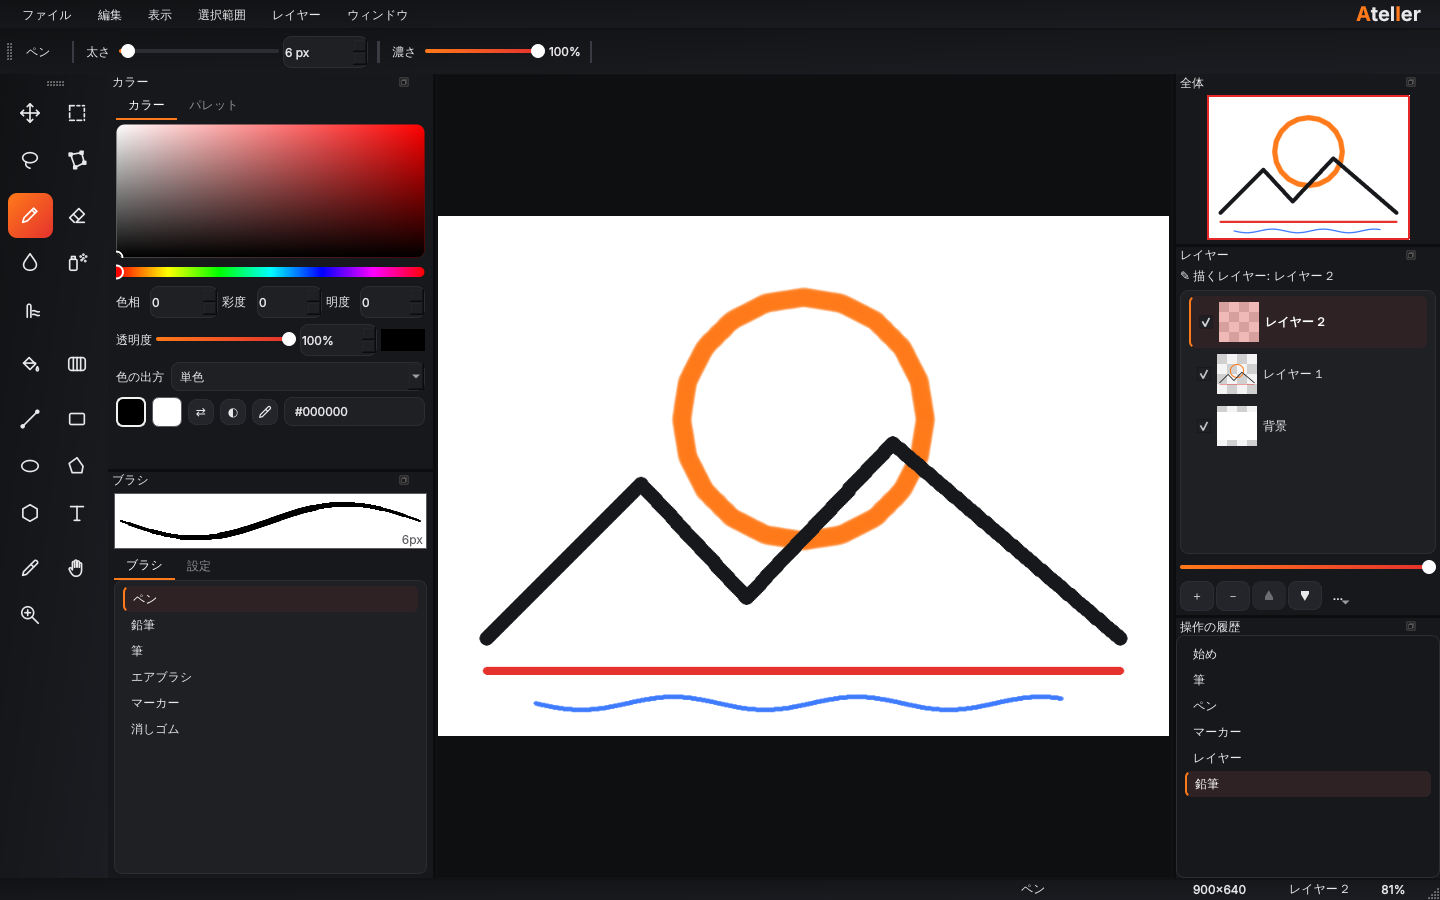
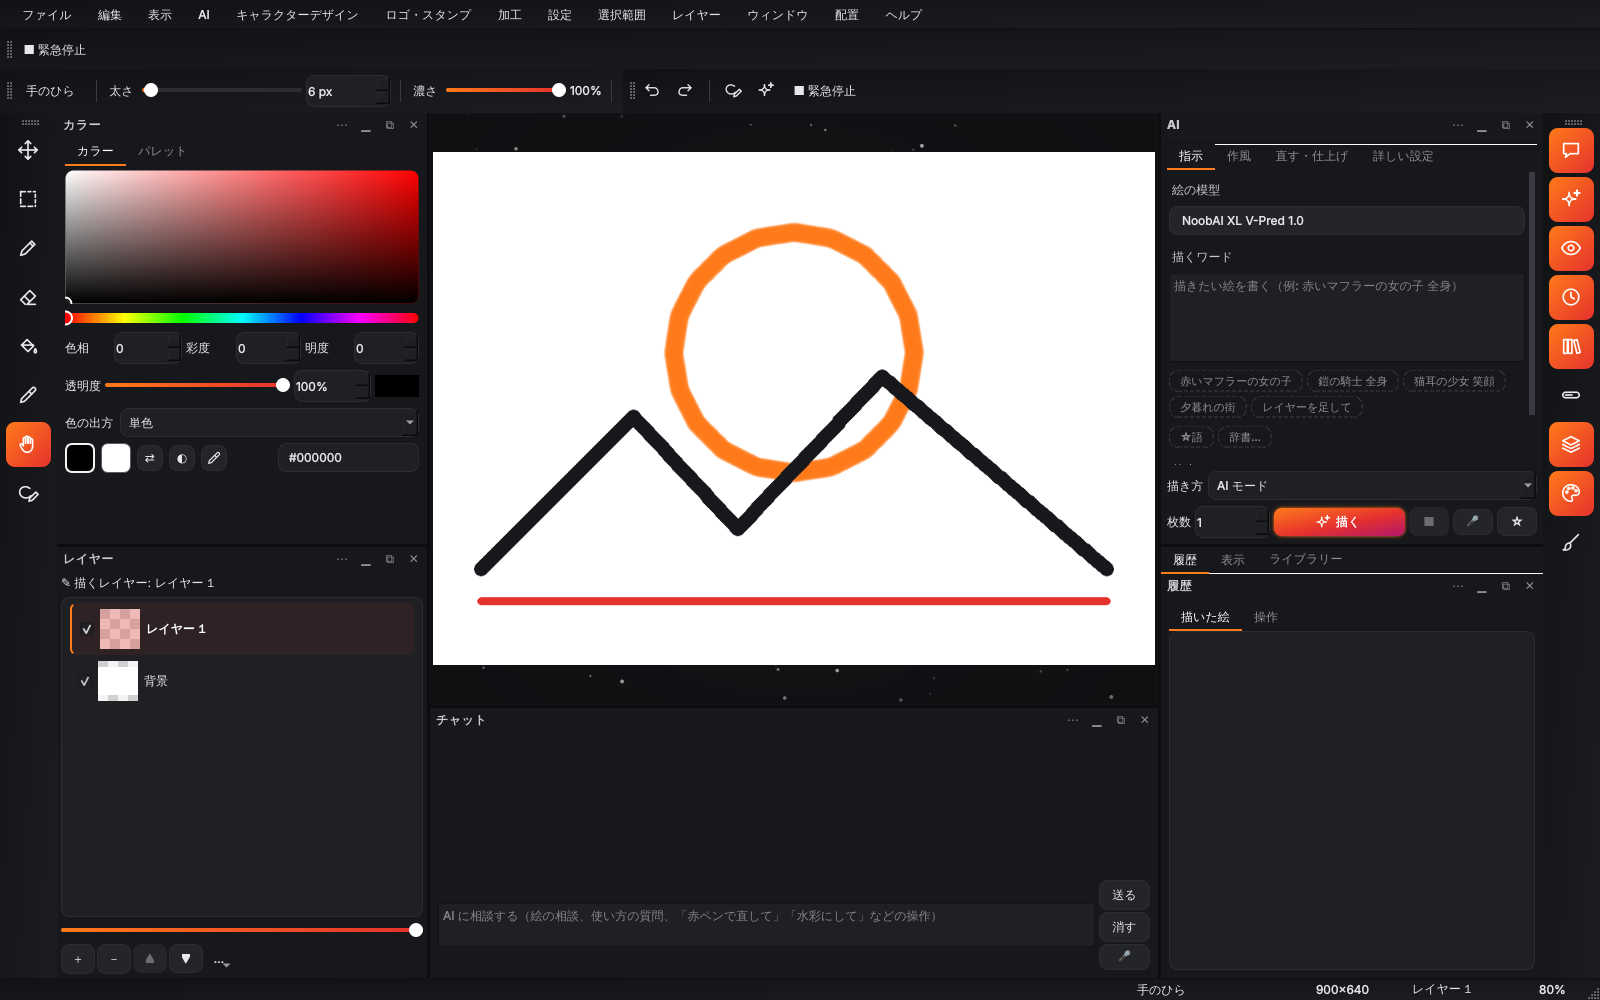
README を今の構成に合わせ、日報と成果物の表を足す
- README: 移したあとの機能・構成・テストの流し方に書き直し、画面を撮り直す
- pyproject: 入口を今の窓に合わせ、Pillow を依存に足す
- docs/reports: 日報（2026-11-21）、成果物の表、判断待ち

Claude-Session: https://claude.ai/code/session_01XcDptuCq2Dsau2DS6Kq74F

diff --git a/docs/reports/daily/2026-11-21.md b/docs/reports/daily/2026-11-21.md
@@ -1,0 +1,28 @@
+# 2026-11-21
+
+やったこと: CharacterDesigner の chatdraw/ の全 127 ファイルを、役目ごとの層（app、paint、panels、ui、files、ai、models、words、qc、agent、bench）へ移した。製品名・設定の置き場・環境変数を AtelIer のものに替えた。ロゴ（A と I が差し色）、構成の地図、テストをファイルごとに流すスクリプトを足した。
+
+良くなったこと: 120 余りのファイルが 1 つのディレクトリに並んでいた状態から、役目で探せる置き場になった。作業ファイルは `.atelier` で保存し、CharacterDesigner の `.cdproj` は開けるが上書きしない。
+
+AI 精度: 測っていない。
+
+直したバグ: 移動で壊れた動的な読み込み（`__import__` が層の名前を返す）。名前を替えたときに私が入れた「開く」の `NameError`。
+
+テスト: 模型の部品（torch、diffusers）を入れない Linux で、移行前後をファイルごとに比べた。85 ファイルのうち 84 が、落ちるテストの名前まで流用元と同じ。この環境では流用元も落ちるファイルがあり、28 ファイルを `tests/needs_models.txt` に分けた。部品を入れた環境では流していない。
+
+知識: 足していない（経緯は .worklog/ に書いた）。
+
+GitHub: PR #1（Draft、未マージ）。
+
+Actions: 走っていない（ワークフローを置いていない）。
+
+残り: キャラクターデザインが窓（`atelier/app/main_window.py`）と `atelier/chara/` に残っている。窓が約 7,800 行ある。README が、移す前の小さい構成の説明のまま。`packaging/` が CharacterDesigner のまま。
+
+判断待ち:
+- ルーティンのプロンプトに「PR #1 が開いている間は同じブランチに積む」と足した。スキルの形（毎朝 main から新しいブランチ）に戻すか。推す案は、PR #1 をマージするまで今のまま。
+- CharacterDesigner の側で、キャラクターデザイン以外を消して AtelIer の上に載せ直す変更は、削除を伴う。進めてよいか。推す案は、AtelIer の拡張の登録口が動いてから、CharacterDesigner に PR を出す。
+
+次に優先するもの:
+1. README を今の構成に合わせる（公開されているのに、中身と合っていない）
+2. キャラクターデザインを窓から切り離し、拡張の登録口を作る
+3. 窓を役目ごとのファイルに分ける

diff --git a/docs/reports/deliverables.md b/docs/reports/deliverables.md
@@ -1,0 +1,13 @@
+# 成果物
+
+1つずつ完成させる。上から順に、状態が完成でない最初の行が「今の成果物」。
+完成条件は、動かして確かめられる文で書く（コマンド名、テスト名、画面の操作と出る結果のどれかを含める）。
+状態は 未着手・進行中・確認待ち・完成 の4つ。残りは、次に何をすれば完成に近づくかを1行で。
+
+| # | 成果物 | 完成条件 | 状態 | 残り | 更新 |
+|---|---|---|---|---|---|
+| 1 | 移行の土台 | `python3 scripts/run_tests.py` が落ちたファイル 0 で終わり、README の起動の手順（`python3 -m atelier`）で窓が出て、README の説明が今の構成と合っている | 進行中 | README を書き直し、起動して画面を撮る | 2026-11-21 |
+| 2 | 拡張の登録口とキャラクターデザインの切り離し | `atelier/` に charadesign・charafile への import が無いことをテストが見ていて、見本の拡張を登録するとメニューが 1 つ増えるテストが通る | 未着手 | 窓の中のキャラクターデザインの操作を洗い出す | 2026-11-21 |
+| 3 | 窓の分割 | `atelier/app/` のどのファイルも 1,500 行以下で、`python3 scripts/run_tests.py` の結果が分ける前と同じ | 未着手 | 窓のメソッドを役目ごとに仕分ける | 2026-11-21 |
+| 4 | AI が操作する窓口 | 外の処理から「新しいキャンバス、線を引く、書き出す」を呼んで PNG が出来るテストが通る | 未着手 | `Canvas.draw_stroke` と `agent/commands.py` の操作の一覧をそろえる | 2026-11-21 |
+| 5 | CI | pull_request で `python3 scripts/run_tests.py` が Linux で流れ、緑になる | 未着手 | 1 回の所要分を測ってからワークフローを足す | 2026-11-21 |

diff --git a/docs/reports/pending.md b/docs/reports/pending.md
@@ -1,0 +1,6 @@
+# 判断待ち
+
+| # | 日付 | 決めてほしいこと | 推す案 | 答え |
+|---|---|---|---|---|
+| 1 | 2026-11-21 | ルーティンのプロンプトに「PR #1 が開いている間は同じブランチに積む」と足した。スキルの形（毎朝 main から新しいブランチ）に戻すか | PR #1 をマージするまで今のまま | |
+| 2 | 2026-11-21 | CharacterDesigner の側で、キャラクターデザイン以外を消して AtelIer の上に載せ直してよいか（削除を伴う） | AtelIer の拡張の登録口が動いてから、CharacterDesigner に PR を出す | |
